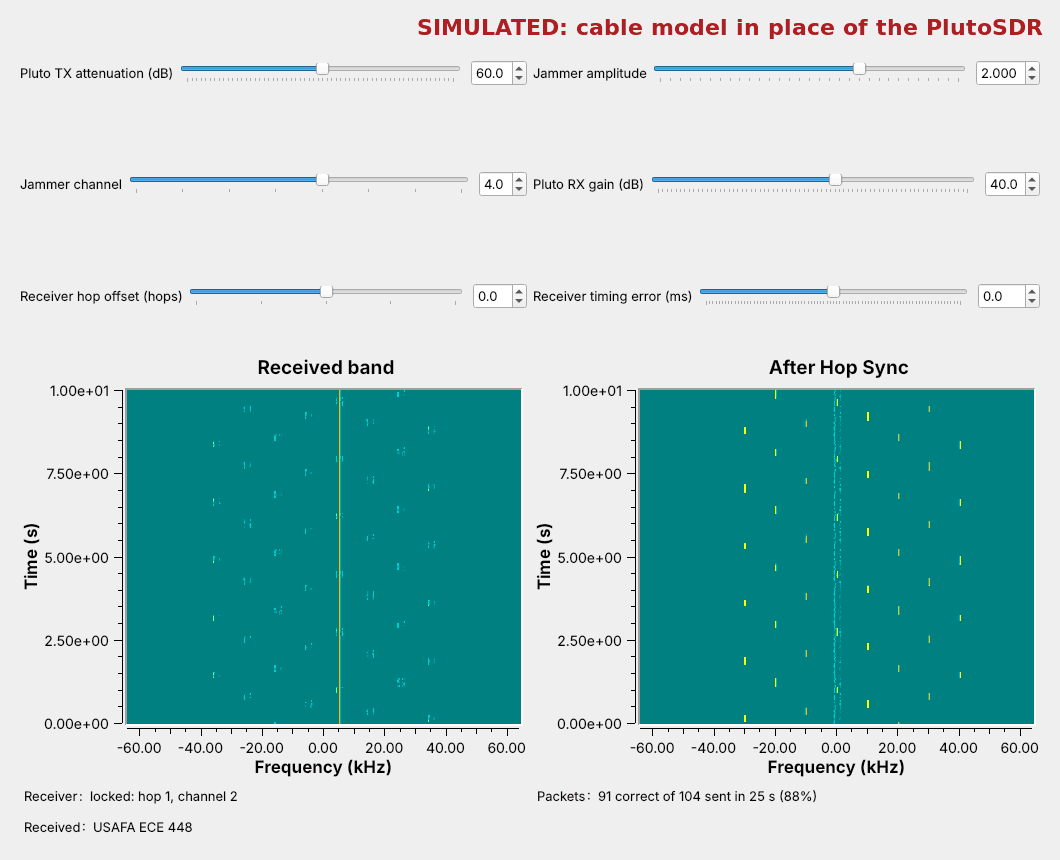
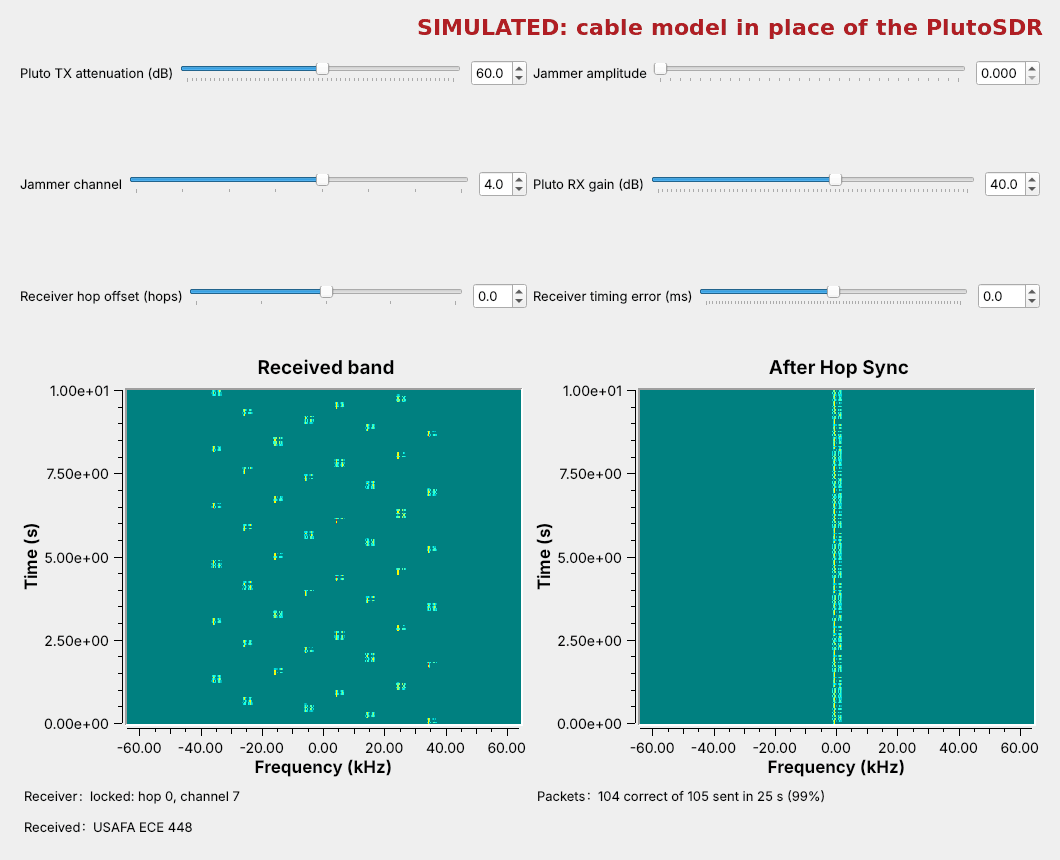
L16: Integrator review fixes
Sync mechanism stated correctly (Hop Sync counts samples; packets only
feed the watchdog) with its two weaknesses on the page; Q7(c) answer
removed from the page; lab success figure retaken with no jammer;
L8 credited for packets; Pluto flowgraph says transmit only into the
cable; Pre-Lab bullets, lab steps, KEY ranges, practice AFH wording,
and deck plan matched to the page.

Claude-Session: https://claude.ai/code/session_01KHju7zgsc6BubQ8RicrgDd

diff --git a/latex/ECE448_Lab_L16_FHSS.tex b/latex/ECE448_Lab_L16_FHSS.tex
@@ -275,7 +275,7 @@ the lab page lists, with your order from Question 2(c).
 		\begin{solution}[1.0in]
 		2000 samples is 15.6 ms, about 6\% of a hop. The carrier sits at 0 Hz for most of
 		each hop, and for the first 15.6 ms of each hop it jumps to $f_k - f_{k-1}$, which shows
-		as a short blip at each hop boundary. A receiver with 16 ms guards would still
+		as short blips at hop boundaries. A receiver with 16 ms guards would still
 		receive every packet.
 		\end{solution}
 
@@ -297,26 +297,27 @@ percent.
 	\hline
 	\texttt{nch} & 8 & 1 & 8 & 2 & 4 \\\hline
 	Jammer & 2, ch 4 & 0.7 & 0.7, ch 4 & 2, ch 1 & 2, ch 1 \\\hline
-	Delivered & \kv{88\%} & \kv{$\approx 44\%$} & \kv{$\approx 94\%$} & \kv{50\%} & \kv{75\%} \\\hline
+	Delivered & \kv{88\%} & \kv{40--46\%} & \kv{$\approx 94\%$} & \kv{50\%} & \kv{75\%} \\\hline
 	\end{tabular}
 	\end{center}
 
 		\begin{solution}[0.9in]
-		Measured headless over 160 to 320 hops: 87.8\%, 42 to 46\%, 93 to 94\%, 50\%,
-		and 75\%. A 30 s run is about 125 hops, so each count can differ by a few packets.
+		Measured headless over 160 to 320 hops: 87.8\%, about 40 to 46\%, 93 to 94\%, 50\%,
+		and 75\%. A 30 s run is only about 125 hops, so a cadet's percentages can differ from
+		these by a few points.
 		\end{solution}
 
 	\begin{minipage}[t]{0.58\linewidth}
 		\part Use your fixed-channel result at 0.7 as $p$ in Question 2(d), and compare the
 		prediction with the hopping result.
 		\begin{solution}[0.9in]
-		With $p = 0.44$, $1 - 0.56/8 = 0.93$, and the hopping link delivered about 94\%: the
+		With $p \approx 0.44$, $1 - 0.56/8 \approx 0.93$, and the hopping link delivered about 94\%: the
 		jammer takes some of the hops on its own channel and none of the others.
 		\end{solution}
 	\end{minipage}\hfill%
 	\begin{minipage}[t]{0.37\linewidth}
 		\raggedleft \vspace{12pt}
-		\ansbox[1.1in]{93\% vs. 94\%}
+		\ansbox[1.3in]{about 93\% vs. 94\%}
 	\end{minipage}
 
 	\part Explain why the delivered fraction at 2 and 4 channels matches Question 2(d).
@@ -474,9 +475,9 @@ before you disconnect the cable.
 	change to Hop Sync or to the packet that removes that weakness.
 		\begin{solution}[1.5in]
 		Hop Sync acquires only on the sync channel, by the jump in its power when hop 0
-		arrives. A jammer already there hides that jump, so the receiver waits forever; a
-		receiver already locked keeps its timing from the packets on the other seven
-		channels. Two fixes: put the hop number in every packet's header and let Hop Sync
+		arrives. A jammer already there hides that jump, so the receiver waits forever. A
+		receiver already locked keeps hopping on its own sample count; packets on the other
+		channels keep the watchdog from parking it again. Two fixes: put the hop number in every packet's header and let Hop Sync
 		park on any channel, lock on the first packet it decodes there, and read which hop
 		it was; or give the receiver two or more sync channels and have it move to the
 		next when one stays busy, as Bluetooth's inquiry procedure uses 32.

diff --git a/latex/ECE448_Practice_L16.tex b/latex/ECE448_Practice_L16.tex
@@ -239,8 +239,8 @@ the signal's to take the hop, as in the L16 jammer sweep.
 		jammed, so every packet arrives again. The jammer does not know the sequence, so it
 		cannot tell which channels are now in use except by listening; to hit the hops it
 		would have to move to new channels and cover them too, and then the receiver drops
-		those. Each channel the hopper drops makes it a little easier to find, which is why
-		Bluetooth keeps at least 20.
+		those. Each channel the hopper drops makes it a little easier to find. Bluetooth's AFH must
+		keep at least 20 channels, a floor set by the radio regulations.
 		\end{solution}
 
 \end{parts}

diff --git a/book/module06/L16-fhss/index.md b/book/module06/L16-fhss/index.md
@@ -47,7 +47,7 @@ Lesson 16 · Module 6: Waveform Applications & RF Reverse Engineering · Dr. Nei
 - A jammer parked on one channel stops only one hop in eight.
 :::
 
-The figure is today's flowgraph, `L16-fhss-link.grc`, running. The transmitter is Lesson 8's FSK modem sending Lesson 10's packets, one packet per **hop**, and it moves to a new channel for every hop. The left waterfall is the band the receiver sees: the signal appears as short dashes that step around eight channels, and a **jammer**, a strong tone parked on one channel, is the solid vertical line at +5 kHz.
+The figure is today's flowgraph, `L16-fhss-link.grc`, running. The transmitter is Lesson 8's FSK modem sending Lesson 8's packets, one packet per **hop**, and it moves to a new channel for every hop. The left waterfall is the band the receiver sees: the signal appears as short dashes that step around eight channels, and a **jammer**, a strong tone parked on one channel, is the solid vertical line at +5 kHz.
 
 The receiver follows the same sequence of channels. The right waterfall is its output after the **Hop Sync** block: the signal stands still at 0 Hz, and now the jammer appears to hop. The receiver loses only the hops that land on the jammed channel, 1 in 8, and the Packets label shows 88% of the packets arriving intact. This is **frequency-hopping spread spectrum** (FHSS).
 ::::
@@ -71,7 +71,7 @@ Bluetooth Classic hops among 79 channels 1 MHz apart, from 2402 MHz up, in slots
      style="max-width: 820px; width: 100%; display: block; margin: 0 auto;">
 :::
 :::{present}
-- The top row is Lesson 8's FSK transmitter with Lesson 10's packets.
+- The top row is Lesson 8's FSK transmitter and its packets.
 - A **VCO** driven by the hop sequence is the hop synthesizer.
 - **Multiply** moves the FSK signal to each hop's channel.
 :::
@@ -207,9 +207,9 @@ FSK suits a hopper because the receiver does not need the carrier's phase. The t
 - When the power there jumps, hop 0 has started: it locks and hops from then on.
 :::
 
-A receiver that knows the key still does not know two things when it starts: which hop the transmitter is on, and when that hop began. The path delay alone is unknown, and on a real radio so are the latency of USB buffers and the instant the transmitter started. We use **sync on a known hop**. Hop Sync parks on the **sync channel**, `seq[0]`, channel 7 for key 448, and measures the power in it every 0.5 ms. Because the sequence visits each channel once per cycle, the transmitter can appear on channel 7 only on hop 0. When the power in the last 2 ms rises 6 dB above its average over an 18 ms window just before, hop 0 has just begun, and Hop Sync takes that instant as its hop boundary and starts hopping. It waits at most one cycle, 1.92 s.
+A receiver that knows the key still does not know two things when it starts: which hop the transmitter is on, and when that hop began. The path delay alone is unknown, and on a real radio so are the latency of USB buffers and the instant the transmitter started. We use **sync on a known hop**. Hop Sync parks on the **sync channel**, `seq[0]`, channel 7 for key 448, and measures the power in it every 0.5 ms. Because the sequence visits each channel once per cycle, the transmitter can appear on channel 7 only on hop 0. When the power in the last 2 ms rises 6 dB above its average over an 18 ms window ending 4 ms earlier, hop 0 has just begun, and Hop Sync takes that instant as its hop boundary and starts hopping. It waits at most one cycle, 1.92 s.
 
-Other designs were possible. A **start-of-hop marker**, such as the access code alone, gives timing within a hop but not which hop it is. **Time of day**, which SINCGARS uses, needs a clock shared to within the guard time. Sync on a known hop needs neither, only the key; its weakness is the one channel it listens on, which the Jammer frames below measure.
+Other designs were possible. A **start-of-hop marker**, such as the access code alone, gives timing within a hop but not which hop it is. **Time of day**, which SINCGARS uses, needs a clock shared to within the guard time. Sync on a known hop needs neither, only the key. It has two weaknesses. It listens on one channel to acquire, which the Jammer frames below measure. And once locked, Hop Sync keeps hopping on its own count of samples and never adjusts its timing; the packets only keep it from parking again. On one Pluto, whose transmitter and receiver share a clock, that does no harm, but between two radios whose clocks differ by a few parts per million, the hop boundaries would drift apart until they left the guard time.
 ::::
 
 ::::{frame} Losing and Regaining Sync
@@ -223,7 +223,7 @@ Other designs were possible. A **start-of-hop marker**, such as the access code 
 - It locks on the next hop 0; here the receiver lost 17 packets.
 :::
 
-The figure moves the path delay from 100 to 400 ms while the link runs, as if the buffering between the two radios had changed. The receiver's hop boundaries now fall 300 ms, more than a whole hop, away from the transmitter's, so it lands on the wrong channels and the scattered stretch on the right waterfall appears. Hop Sync counts the hops since the last packet, and when more than 9 pass, a cycle and a hop, with none, it parks on the sync channel again. It locks when hop 0 next arrives, and the steady trace returns.
+The figure moves the path delay from 100 to 400 ms while the link runs, as if the buffering between the two radios had changed. The receiver's hop boundaries now fall 300 ms, more than a whole hop, away from the transmitter's, so it lands on the wrong channels and the scattered stretch on the right waterfall appears. Hop Sync counts the hops since the last packet, and when more than 9 pass, a cycle and a hop, with none, it parks on the sync channel again. It locks when hop 0 next arrives, and the steady trace returns. The waterfall's time axis is only approximate, because the GUI scrolls one row per display update; on it, an 8-hop cycle of 1.92 s spans about 1.5 s. We read times from the Packets label instead.
 
 The receiver loses about 10 hops, 2.4 s, plus up to one more cycle and a hop, 2.2 s, depending on where in the cycle the transmitter is when Hop Sync parks. Here the Packets label shows 20 of 37 packets since the slider moved: the receiver lost 17 hops, 4.1 s, near the long end of that range.
 ::::
@@ -295,7 +295,7 @@ We measured the link headless at noise amplitude 1, with two noise seeds at each
 
 A jammer equal in power to the signal stops a fixed-channel link completely, and the hopping link still delivers 7 packets in 8. To take every hop, the jammer has to cover all 8 channels. The same transmitter power spread over 8 channels puts $10 \log_{10} 8 = 9$ dB less on each: eight tones of amplitude 0.354, together equal in power to one tone of amplitude 1, blocked no packets at all. Eight tones of amplitude 1, 8 times the power, took every hop: no packet arrived after they came on, and with the sync channel jammed too, the receiver never locked again.
 
-The receiver has one weak point, the sync channel. With the tone of amplitude 3 on the sync channel, channel 7, from the start, Hop Sync never saw the power jump and never locked: 0 packets. Turned on after the receiver had locked, the same jammer took only its 1 hop in 8, and 88% of the packets after it came on arrived. A real system protects acquisition by using several sync channels, as Bluetooth's inquiry procedure does with 32, or by sending the hop number in every packet so that any hop can serve.
+The receiver has one weak point, the sync channel. With the tone of amplitude 3 on the sync channel, channel 7, from the start, Hop Sync never saw the power jump and never locked: 0 packets. Turned on after the receiver had locked, the same jammer took only its 1 hop in 8, and 88% of the packets after it came on arrived, because the receiver kept hopping on its own count. But if that receiver ever lost lock, it would park on the jammed channel and never lock again. A real system protects acquisition too; the lab asks how.
 ::::
 
 ::::{frame} Frequency Hopping on a Real Radio

diff --git a/book/module06/L16-lab-fhss/index.md b/book/module06/L16-lab-fhss/index.md
@@ -41,6 +41,7 @@ Questions 1 to 5 run on your laptop and transmit nothing. Question 6 transmits, 
 :::{present}
 - `L16-fhss-link.grc` runs, locks, and decodes `USAFA ECE 448`.
 - Predict the hop timing and the timing window with 4 guard bytes.
+- Predict your own hopper's hop frequencies and timing.
 - Predict the packets delivered past a jammer with 2 and 4 channels.
 :::
 
@@ -53,10 +54,12 @@ Question 2 asks for predictions from the lesson: the length of a hop, the hop ra
 :::{present}
 | Check | Source |
 | :-- | :-- |
-| Hop length | bits per hop / 1000 baud |
+| Hop length | bits / 1000 baud |
 | Cycle time | channels × hop length |
-| Timing window | the guard time at each end |
-| Delivered past a jammer | the share of hops on the jammed channel |
+| Your hop time | `dwell` / `samp_rate` |
+| Timing window | guard time per end |
+| Strong jammer | share of hops on its channel |
+| Weak jammer | its own-channel loss, over 8 |
 :::
 
 These follow from Lesson 16. The hop timing is exact. The timing window and the jamming fractions are approximate: the access-code search tolerates 2 wrong bits, which stretches the window a little on the late side, and the count of packets in a short run varies with the noise. That is why the packet records the delivered fraction over at least 30 s at each setting.
@@ -84,14 +87,14 @@ These follow from Lesson 16. The hop timing is exact. The timing window and the 
 1. Open and run `L16-fhss-link.grc` with every slider at its default. Wait until the Receiver label reads "locked" and the Received label shows the message.
 2. Set the jammer amplitude to 2 on channel 4. Wait 30 s and record the Packets label for Question 4(a). The counts restart each time a slider moves.
 3. Close the flowgraph. On the canvas, double-click the variable `nch` and set it to 1, which keeps the link on one channel. Run it, set the jammer amplitude to 0.7, wait 30 s, and record the Packets label for Question 4(b). Close it, set `nch` back to 8, run it, set the jammer to 0.7 on channel 4, and record the Packets label again.
-4. Set `nch` to 2, run it, set the jammer to 2 on channel 1, and record the Packets label after 30 s. Do the same with `nch` set to 4. Set `nch` back to 8.
-5. Set the jammer amplitude to 3 on channel 7, the sync channel for key 448, while the receiver is locked, and record the Packets label after 30 s. Then close the flowgraph. The receiver locks about 0.1 s after a run starts, too fast to move a slider first, so on the canvas double-click the QT GUI Range `jam_amp` and set its Default Value to 3, and set `jam_ch`'s Default Value to 7. Run it, and record the Receiver and Packets labels after 30 s, for Question 4(d). Set both Default Values back to 0 and 4.
+4. Close the flowgraph. Set `nch` to 2, run it, set the jammer to 2 on channel 1, and record the Packets label after 30 s. Do the same with `nch` set to 4. Set `nch` back to 8.
+5. Run it and wait for "locked". Set the jammer amplitude to 3 on channel 7, the sync channel for key 448, while the receiver is locked, and record the Packets label after 30 s. Then close the flowgraph. The receiver locks about 0.1 s after a run starts, too fast to move a slider first, so on the canvas double-click the QT GUI Range `jam_amp` and set its Default Value to 3, and set `jam_ch`'s Default Value to 7. Run it, and record the Receiver and Packets labels after 30 s, for Question 4(d). Set both Default Values back to 0 and 4.
 ::::
 
 ::::{frame} Part 2: Sync
 :class: read-only
 
-1. Set the jammer amplitude back to 0. Set the Receiver hop offset to +1, wait 20 s, and record the Packets label. Do the same at −1. Set it back to 0.
+1. Set the jammer amplitude back to 0. Set the Receiver hop offset to +1, wait 30 s, and record the Packets label. Do the same at −1. Set it back to 0.
 2. Close the flowgraph. Set the variable `guard` to 4, run it, and wait for the receiver to lock. Set the Receiver timing error to −24, +24, −30, +30, −36, and +36 ms in turn, and record the Packets label after 30 s at each, for Question 5(b). Set `guard` back to 2 when you finish.
 3. With the timing error at 0, move the Path delay slider from 100 to 500 ms and start a stopwatch. The Packets label restarts at 0 correct when the slider moves; stop the watch when its correct count first rises above 0. Repeat three times, moving the slider between 100 and 500 ms, for Question 5(c).
 ::::
@@ -125,7 +128,7 @@ In class we transmit only into a cable, into a shielded enclosure, or at very lo
 :class: read-only
 
 <img src="../../viz/img/L16-pluto-sim.png"
-     alt="L16-fhss-pluto.grc run in simulation, labeled SIMULATED on the figure, with a model of the cable, a 37 ms delay, and the Pluto's estimated levels and noise in place of the PlutoSDR: at 60 dB TX attenuation, 40 dB RX gain, and a jammer of amplitude 2 on channel 4, the received-band waterfall shows the hopping dashes and the jammer line at plus 5 kHz, the After Hop Sync waterfall shows the signal steady at 0 Hz and the jammer hopping, and the labels read Receiver locked, Packets 91 correct of 104 sent in 25 s (88%), and Received USAFA ECE 448"
+     alt="L16-fhss-pluto.grc run in simulation, labeled SIMULATED on the figure, with a model of the cable, a 37 ms delay, and the Pluto's estimated levels and noise in place of the PlutoSDR: at 60 dB TX attenuation, 40 dB RX gain, and no jammer, the received-band waterfall shows the hopping dashes, the After Hop Sync waterfall shows the signal steady at 0 Hz, and the labels read Receiver locked, Packets 104 correct of 105 sent in 25 s (99%), and Received USAFA ECE 448"
      style="max-width: 820px; width: 100%; display: block; margin: 0 auto 12px;">
 
 The figure is the PlutoSDR flowgraph run in simulation, with the Pluto Sink and Source replaced by a model of the cable that uses our estimate of the Pluto's levels and a fixed delay of 37 ms between the ports. The real levels and delay will differ, but Hop Sync and the AGC should give the same picture. On the bench, look for the same three things: the hopping dashes on the received-band waterfall, a steady trace at 0 Hz after Hop Sync with the Receiver label reading "locked", and the message in the Received label.

diff --git a/book/extras/slides/L16-fhss.md b/book/extras/slides/L16-fhss.md
@@ -23,7 +23,7 @@ Spring 2027 · Dr. Neil Rogers
 ## Where We Were
 
 - Lesson 8 sent text through an FSK transmitter, a channel, and a receiver.
-- Lesson 10 put each line behind a 64-bit access code.
+- Lesson 8 also put each line in a packet behind a 64-bit access code.
 - Lesson 11 wrote Embedded Python Blocks.
 
 Today we send Lesson 8's packets on a new channel every hop.
@@ -35,14 +35,13 @@ Open both L16 flowgraphs in GRC before class. The link flowgraph runs in the fir
 
 ## Today's Plan
 
-1. The hopping transmitter
-2. The hop sequence and the hop timing
-3. The receiver: de-hopping
-4. Finding the hops: sync on a known hop
-5. A narrowband jammer
+1. The hopping transmitter and the hop sequence
+2. The receiver: de-hopping
+3. Finding the hops: sync on a known hop
+4. A narrowband jammer
 
 Note:
-Parts 1 and 2 are the transmitter, parts 3 and 4 the receiver. Part 5 runs live with the jammer slider.
+These are the four parts of the lesson page. Part 1 is the transmitter, parts 2 and 3 the receiver. Part 4 runs live with the jammer slider.
 
 ---
 
